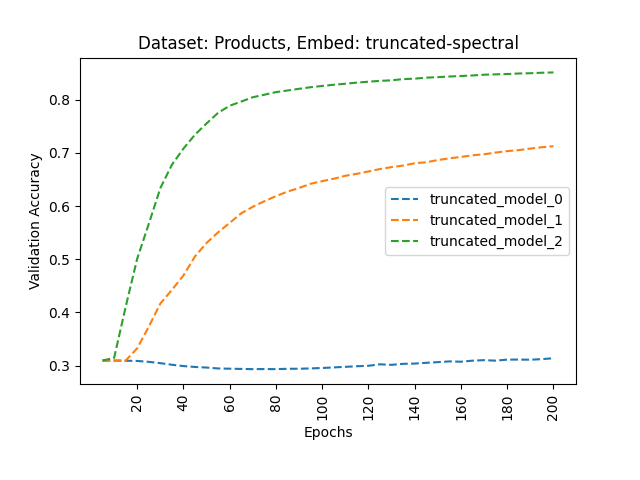
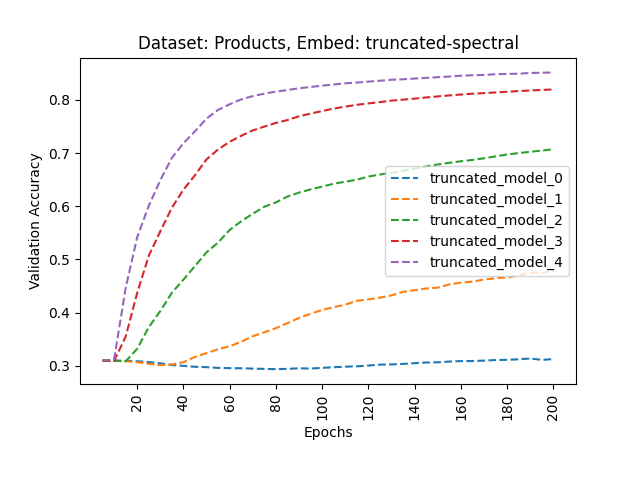
Added more graphs

diff --git a/create_TruncatedConicMLPGraphs.py b/create_TruncatedConicMLPGraphs.py
@@ -3,7 +3,7 @@ import statistics
 import matplotlib.pyplot as plt
 import numpy as np
 root_dir = "/home/ryanlee/Repositories/AISTATS_2024"
-dataset_name = ["Cora","CiteSeer","PubMed","WikiCs","Arxiv"]
+dataset_name = ["Cora","CiteSeer","PubMed","WikiCs","Arxiv","Products"]
 trun_names = ["truncated_model_0","truncated_model_1","truncated_model_2","truncated_model_3","truncated_model_4"]
 conic_names = ["model_0","model_1","model_2","model_3","model_4"]
 

diff --git a/create_TruncatedSpectrumMLPGraphs.py b/create_TruncatedSpectrumMLPGraphs.py
@@ -3,7 +3,7 @@ import statistics
 import matplotlib.pyplot as plt
 import numpy as np
 root_dir = "/home/ryanlee/Repositories/AISTATS_2024"
-dataset_name = ["Cora","CiteSeer","PubMed","WikiCs","Arxiv"]
+dataset_name = ["Cora","CiteSeer","PubMed","WikiCs","Arxiv","Products"]
 model_name = ["truncated_model_0","truncated_model_1","truncated_model_2","truncated_model_3","truncated_model_4"]
 embedding_list = ["truncated-spectral"]
 
